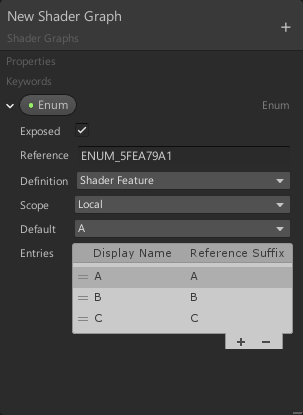
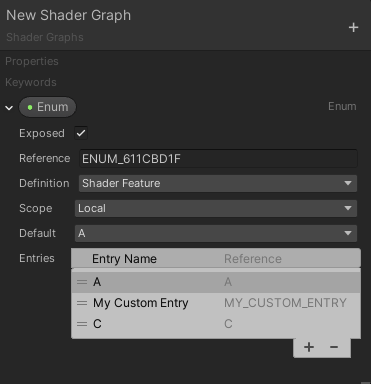
update documentation

diff --git a/com.unity.shadergraph/Documentation~/Keywords.md b/com.unity.shadergraph/Documentation~/Keywords.md
@@ -42,7 +42,9 @@ In addition to the common parameters listed above, Boolean Keywords have the fol
 ## Enum Keywords
 Enum Keywords can have two or more states, which you define in the **Entries** list. If you expose an Enum Keyword, the **Display Names** in its **Entries** list appear in a dropdown menu in the Material Inspector.
 
-When you define an Enum Keyword, Shader Graph appends the entry’s **Reference Suffix** to the main **Reference** name to define each state. It uses the `{Reference}_{ReferenceSuffix}` pattern to define most entries, but be aware that it uses an `else` statement to select the last entry, which it regards as the off state.
+When you define an Enum Keyword, Shader Graph appends a sanitized version of the **Entry Name** to the main **Reference** name to define each state. The sanitized version of the **Entry Name** can be seen to the right, under **Reference Suffix**. It uses the `{Reference}_{ReferenceSuffix}` pattern to define most entries, but be aware that it uses an `else` statement to select the last entry, which it regards as the off state.
+
+Special characters such as `( )` or `! @` are not valid in the **Entry Name** of an Enum Keyword. Invalid characters will be converted to an underscore ( `_` ). 
 
 ![](images/keywords_enum.png)
 
